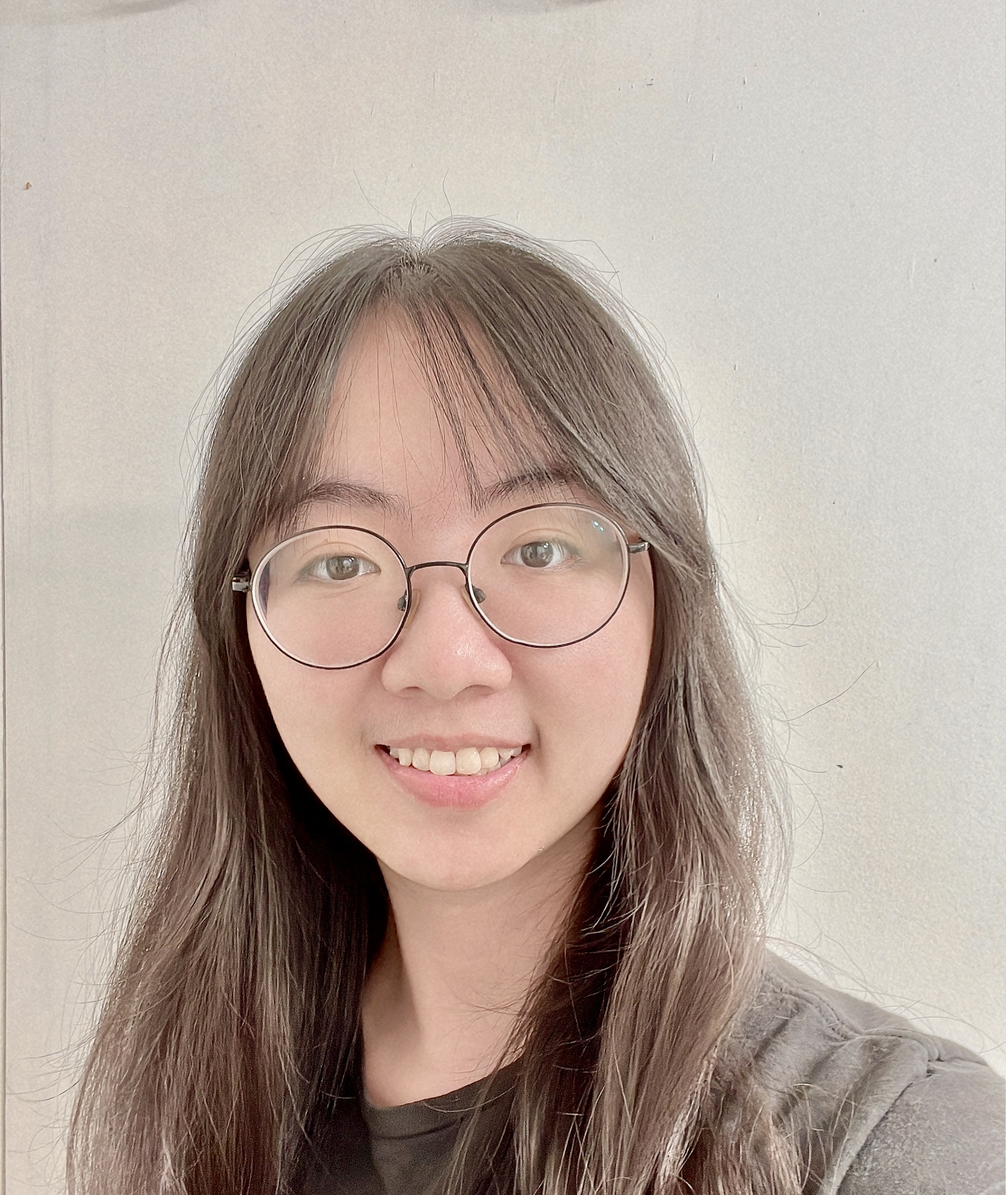
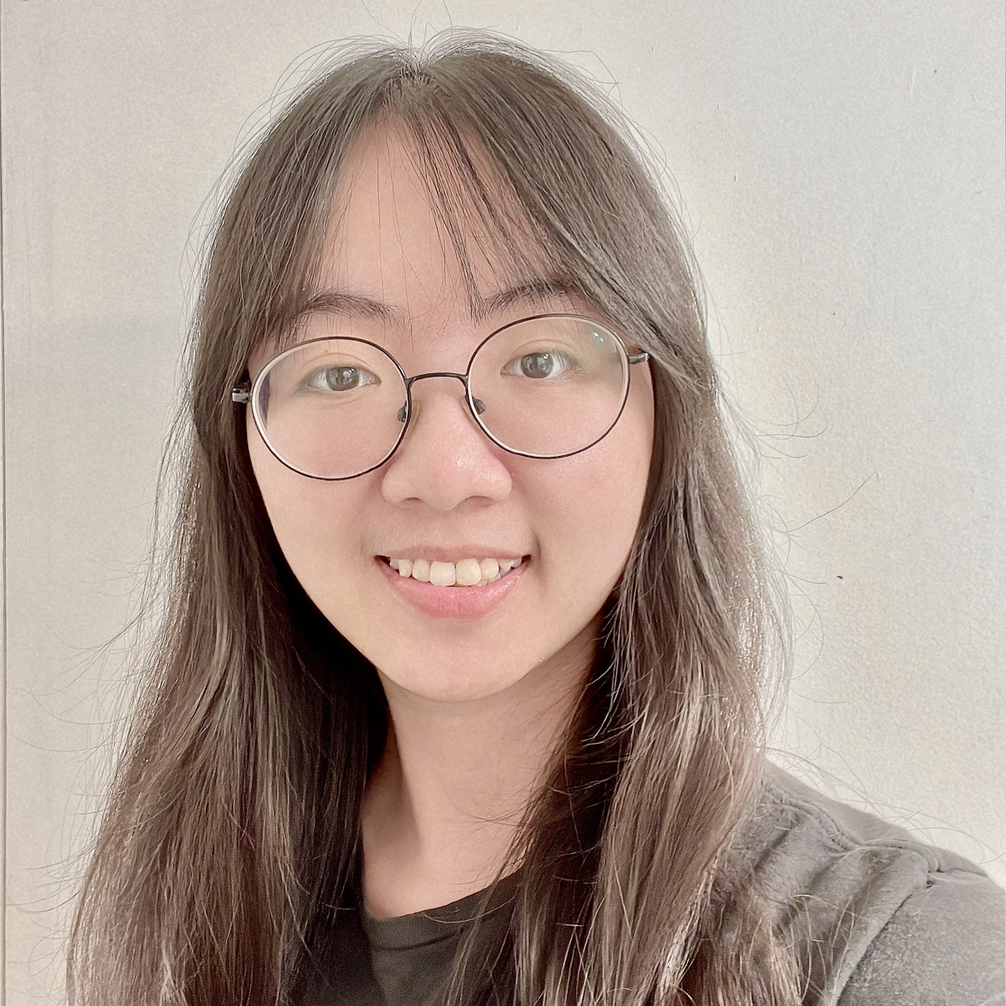
Changed the Profile pic

diff --git a/index.html b/index.html
@@ -23,7 +23,7 @@
       <div class="profile-container">
         <div class="profile">
           <img
-            src="./assets/images/Profile.jpg"
+            src="./assets/images/profilePic.jpg"
             alt="profile picture"
             height="175"
           />
